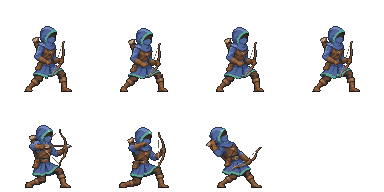
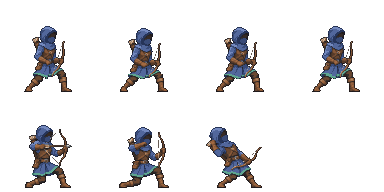
Accept the PC Aseprite touch-up of the archer sheet and re-register it
First PC delivery: .aseprite source exports pixel-identical to the PNG.

Claude-Session: https://claude.ai/code/session_01GaNnj798T1h6Syc1iU5s6y

diff --git a/art/inbox/NOTES.md b/art/inbox/NOTES.md
@@ -215,3 +215,9 @@
 
 - `sheet_captain_bard.png`: 깃 달린 삼각모·자주색 코트·금색 레이피어 코등이·등에 맨 류트를 유지했다. 방패나 연주 효과는 없다. 준비 자세의 칼끝은 깃 위로 오른쪽을 향한다. 타격 자세의 긴 칼끝까지 옆 자세와 분리하기 위해 너비를 가이드보다 약 6.2% 줄였다.
 - 1536×1024, 1×4, 최하단 y=870, 바깥·자세 사이 최소 여백 32px, 전경 39색, 마젠타 키와 최소 RGB 거리 182.64 확인. 64px 미리보기에서 자세마다 칼이 옷 밖에 있다. 타격에서 가는 칼끝이 축소 필터에 따라 한두 점 끊겨 보일 수 있으니 엔진 미리보기에서 먼저 확인하면 좋겠다. 게임 등록은 하지 않았다.
+
+## 손질 — 궁수 (Aseprite)
+
+- `sheet_class_archer.png`: 자세·윤곽·크기·위치는 그대로. 얼굴 둘레 후드 앞 가장자리를 장식 열쇠 색에서 제복 열쇠 색(#394b78 바탕, #263459 주름 선)으로 바꿨다. 마스크는 어두운 두 단계만(#394b78 바탕, #263459 주름), 눈 틈은 따뜻한 어둠 그대로. 밑단 밖에 흩어져 있던 장식 열쇠 색 점 29개(어깨·팔 외곽선, 활시위 위)를 주변 색(외곽선·시위 색)으로 정리 — 장식 열쇠 색은 이제 상의 밑단에만 있다.
+- Aseprite 원본: `aseprite/sheet_class_archer.aseprite` (original / touchup / touchup_accent_strays 레이어).
+- 검사: `check_delivery.py` PASS (32색, 키와 최소 거리 205.7, 네 자세 최하단 y=870). 열쇠 색 확인 줄: 일곱 열쇠 모두 사용, near-key non-key pixels 0.

diff --git a/art/requests/feedback.md b/art/requests/feedback.md
@@ -172,3 +172,8 @@
 - art-inbox `fb47d45`. `check_delivery.py` PASS (39색, 키와 최소 거리 182.6). 변환 정상. 깃털 삼각모·자주 코트·등의 류트 유지, 연주 효과 없음.
 - **메모 (다음 손질 때)**: 레이피어 날이 1px 짙은 회색이라 어두운 전장에서 가늘고 흐리다 — 날을 밝은 강철색(#c8ccd2 근처) 2px 로. 지금도 몸 바깥이라 읽히기는 한다.
 - 다음 차례: 오르가(야수 조련사), 브로크(룬 대장장이, DOT_READY로 올림).
+
+## 궁수 손질 (PC·Aseprite 첫 납품, `9b72e75`) ✅ — 통과, 재등록 완료 (ACCEPTED)
+- `check_delivery.py` PASS (32색, 키와 최소 거리 205.7) + **`.aseprite` 원본을 클라우드의 Aseprite 로 내보낸 결과가 PNG 와 픽셀 단위로 같음** — 원본·납품 일치 확인 루프가 동작한다.
+- 후드 앞 가장자리·마스크가 제복 열쇠 색의 어두운 단계로 바뀌어, 진영 색을 입혀도 얼굴이 그늘진 후드로 읽힌다(빨강 시험 확인). 장식 열쇠 색은 밑단에만. 자세·윤곽 그대로.
+- 흩어진 장식 열쇠 점 29개까지 정리한 것도 좋았다. 다음 PC 항목: 도적 스카프 → 해골 → 늑대 → 가고일 → 사막 도적 → 하피 → 망령.
